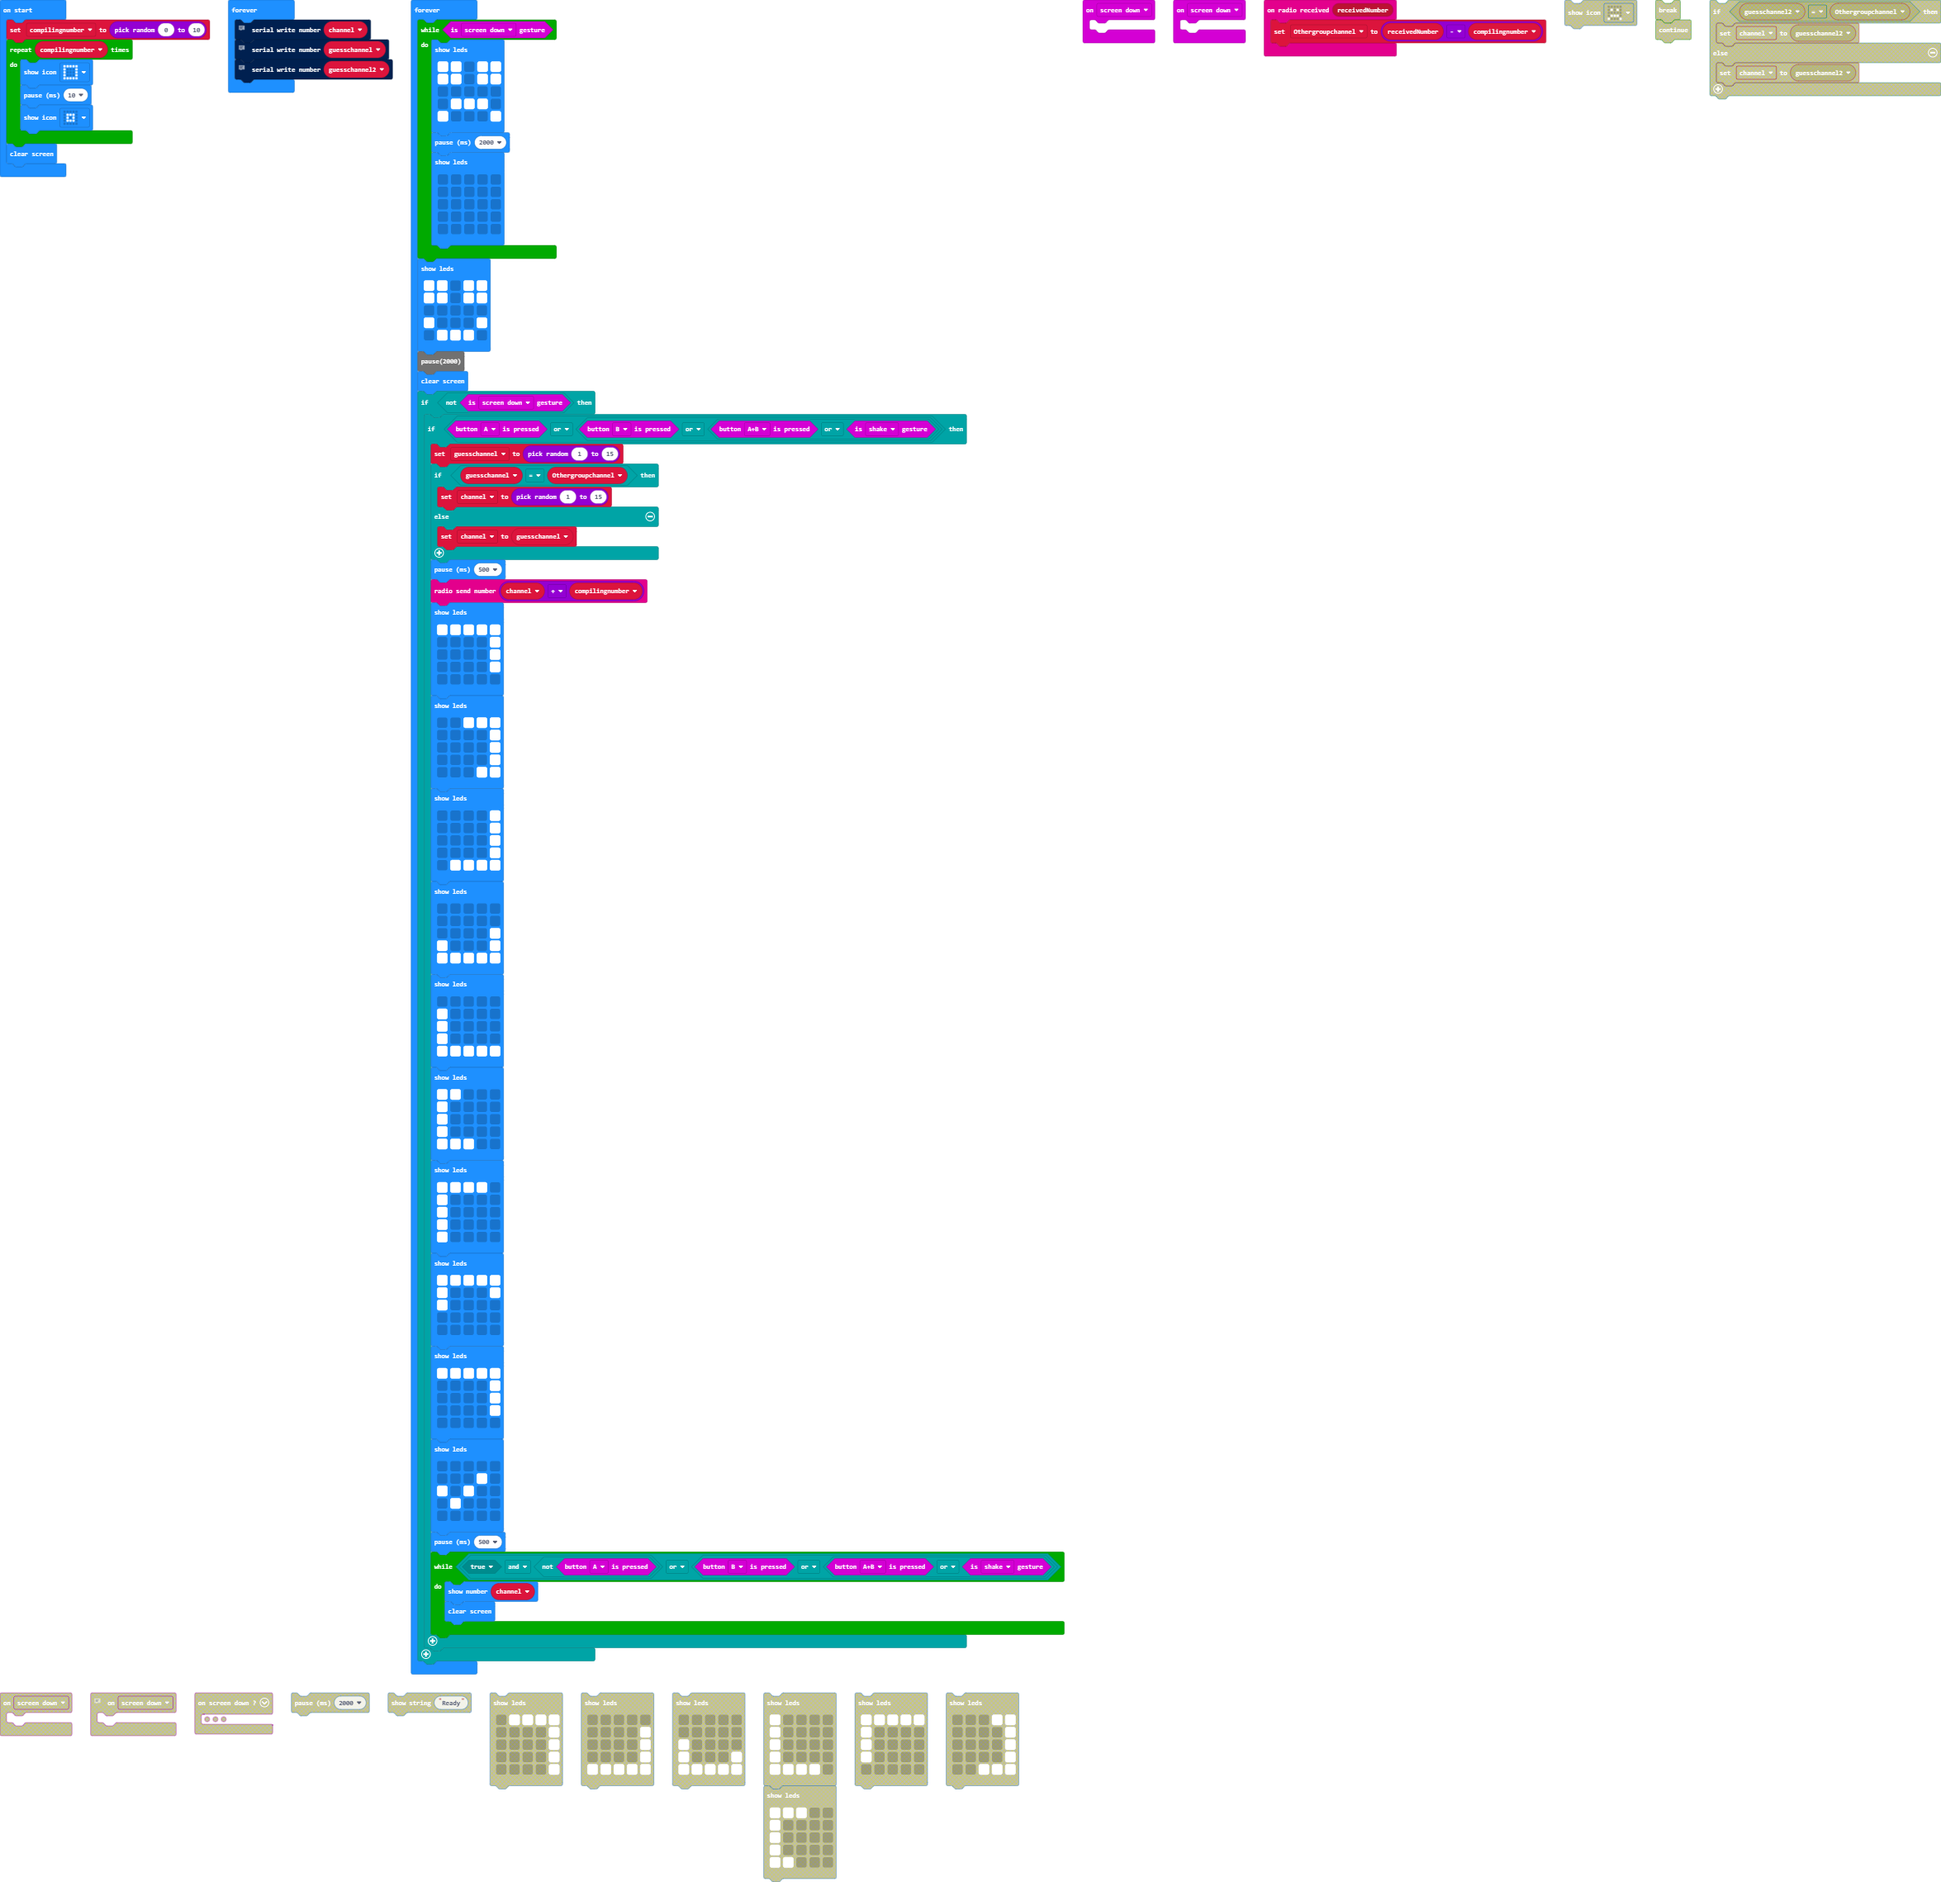
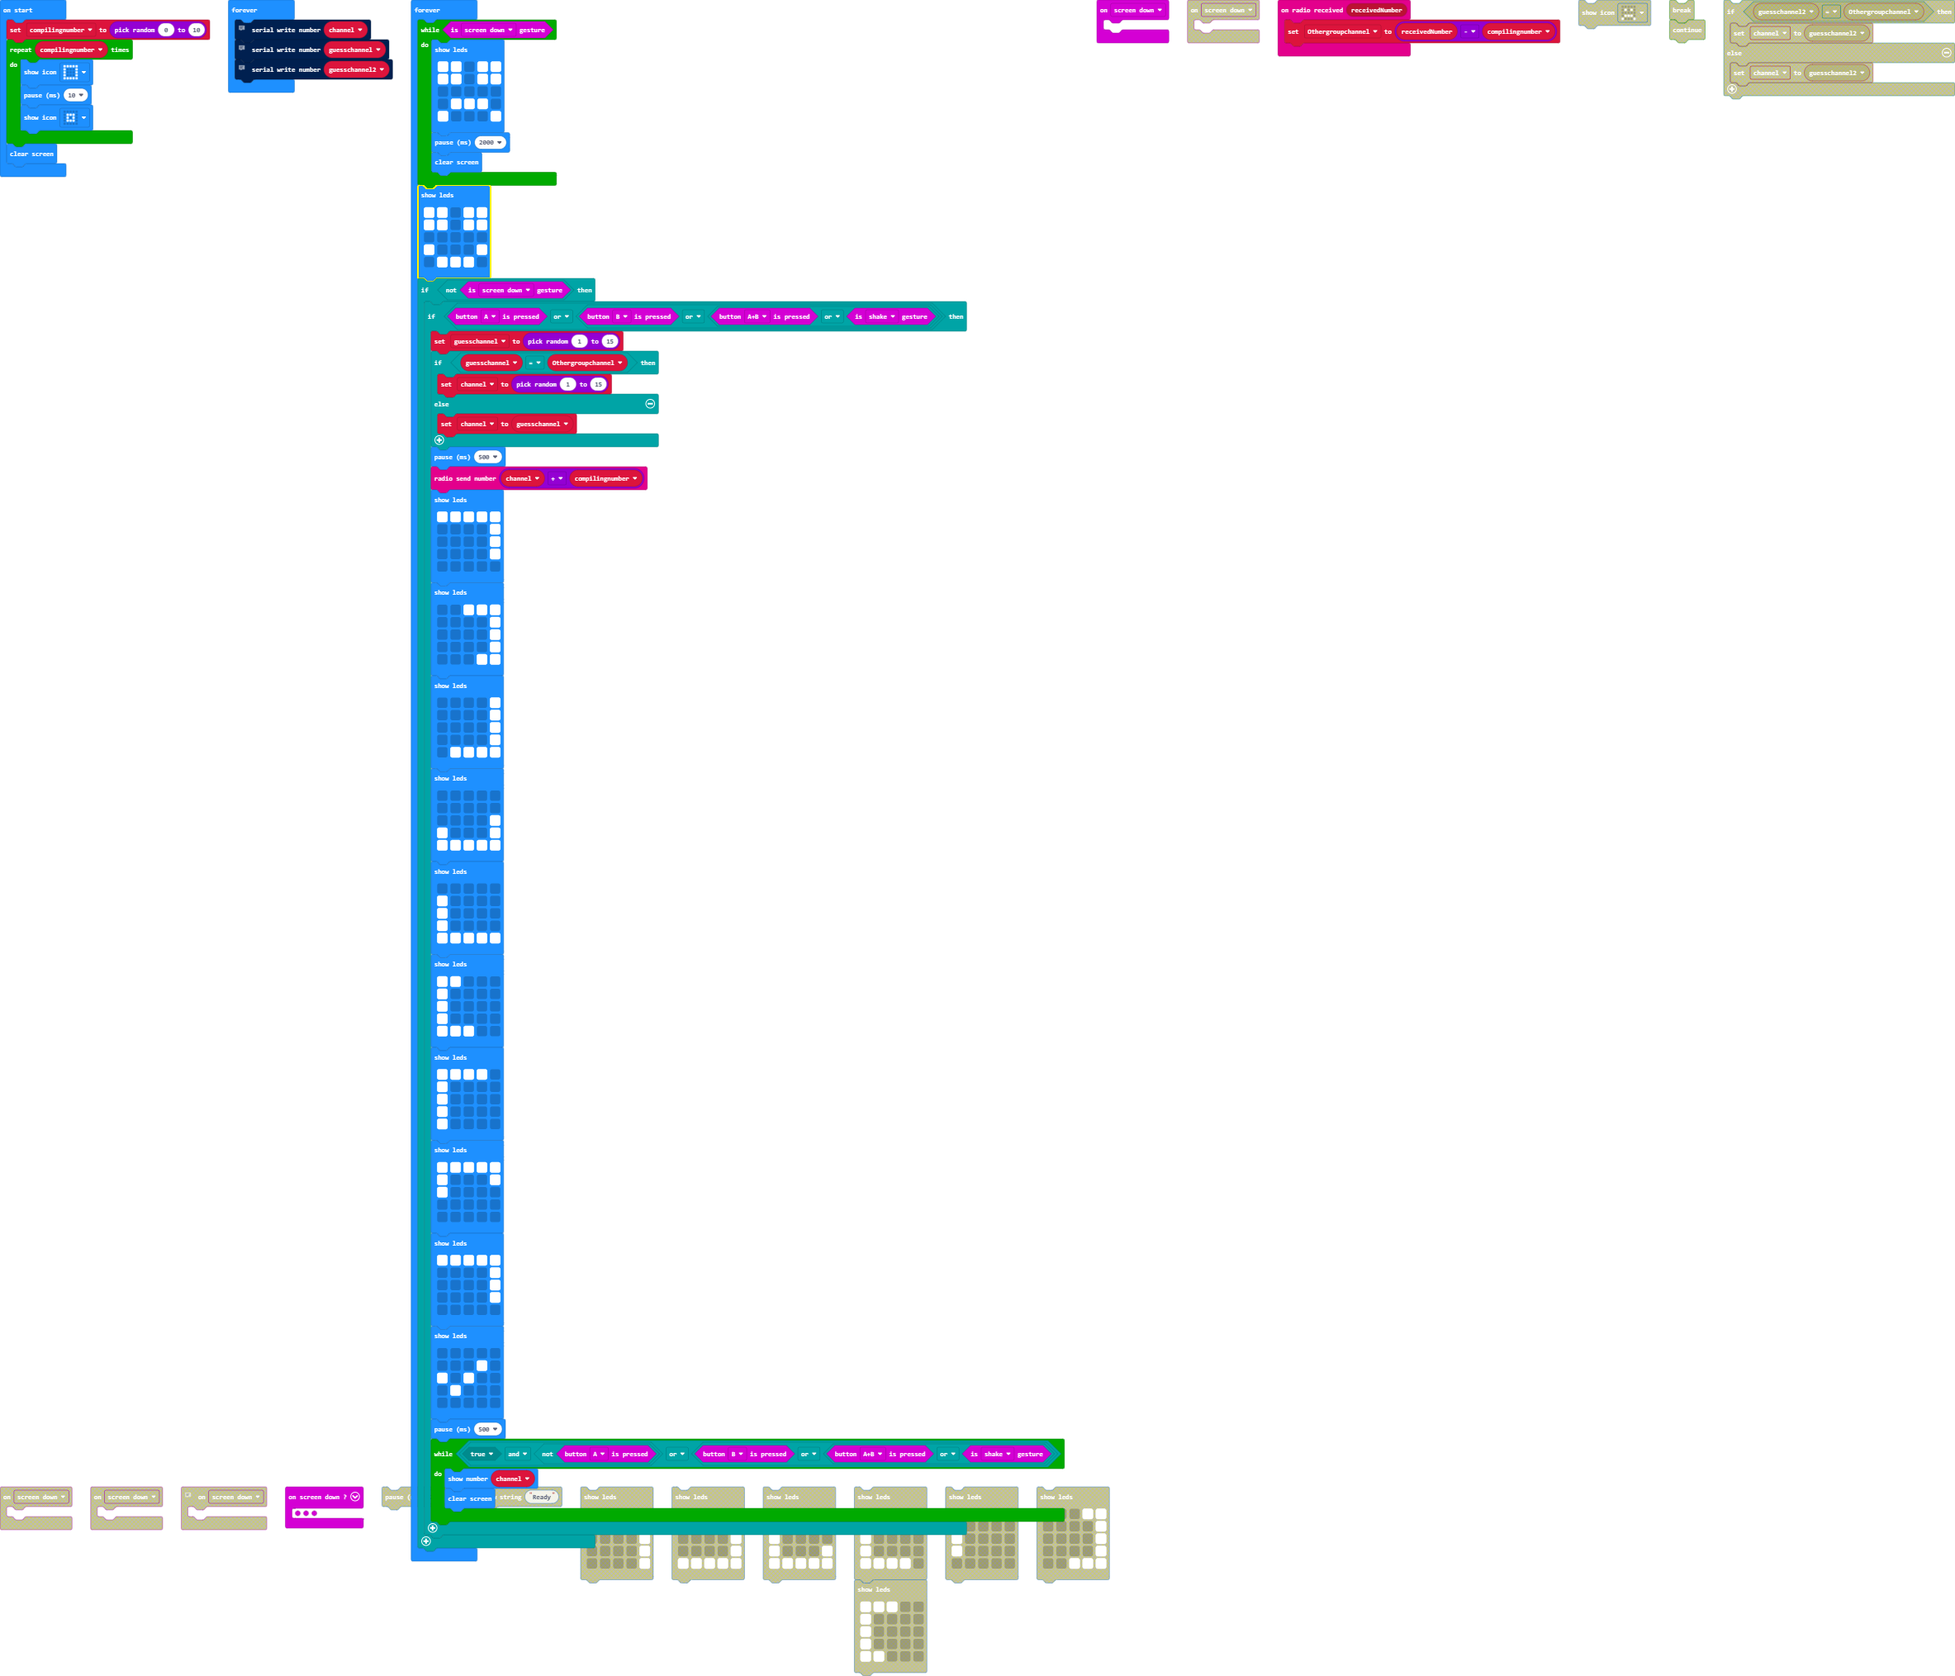
Update pxt.json, main.blocks, main.ts

Changed region(s): [[0.0, 0.0, 0.5902, 1.0], [0.5591, 0.0, 1.0, 0.0621]]

diff --git a/main.ts b/main.ts
@@ -41,6 +41,7 @@ basic.forever(function () {
             `)
         basic.pause(2000)
         basic.clearScreen()
+    }
     basic.showLeds(`
         # # . # #
         # # . # #
@@ -48,8 +49,6 @@ basic.forever(function () {
         # . . . #
         . # # # .
         `)
-        pause(2000)
-        basic.clearScreen()
     if (!(input.isGesture(Gesture.ScreenDown))) {
         if (input.buttonIsPressed(Button.A) || (input.buttonIsPressed(Button.B) || (input.buttonIsPressed(Button.AB) || input.isGesture(Gesture.Shake)))) {
             guesschannel = randint(1, 15)
@@ -137,5 +136,4 @@ basic.forever(function () {
             }
         }
     }
-}
 })
